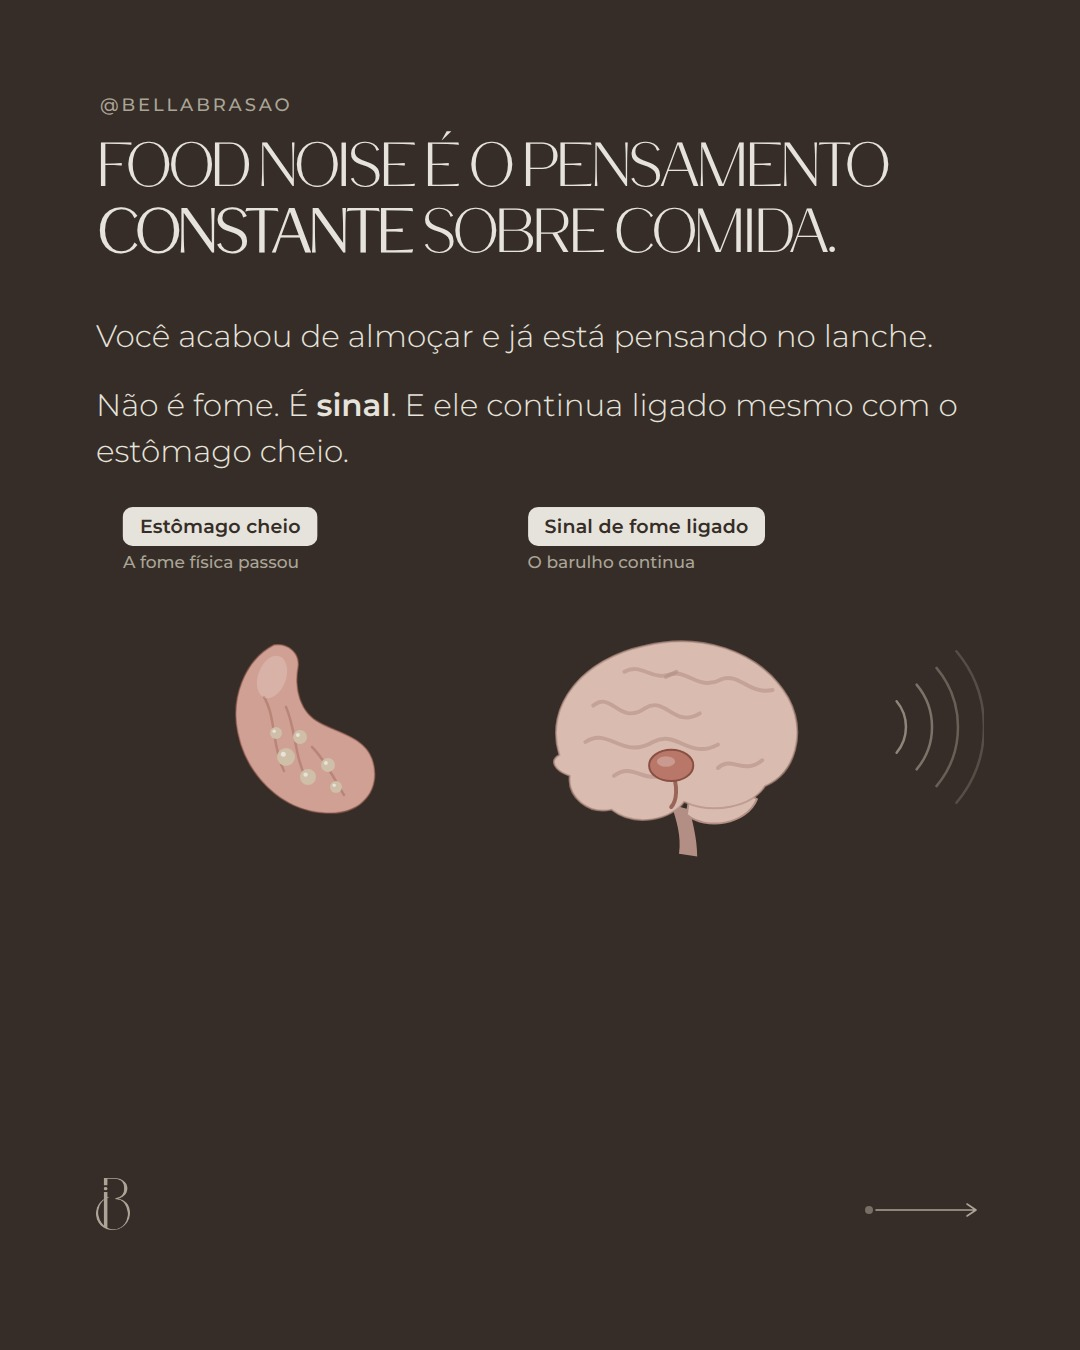
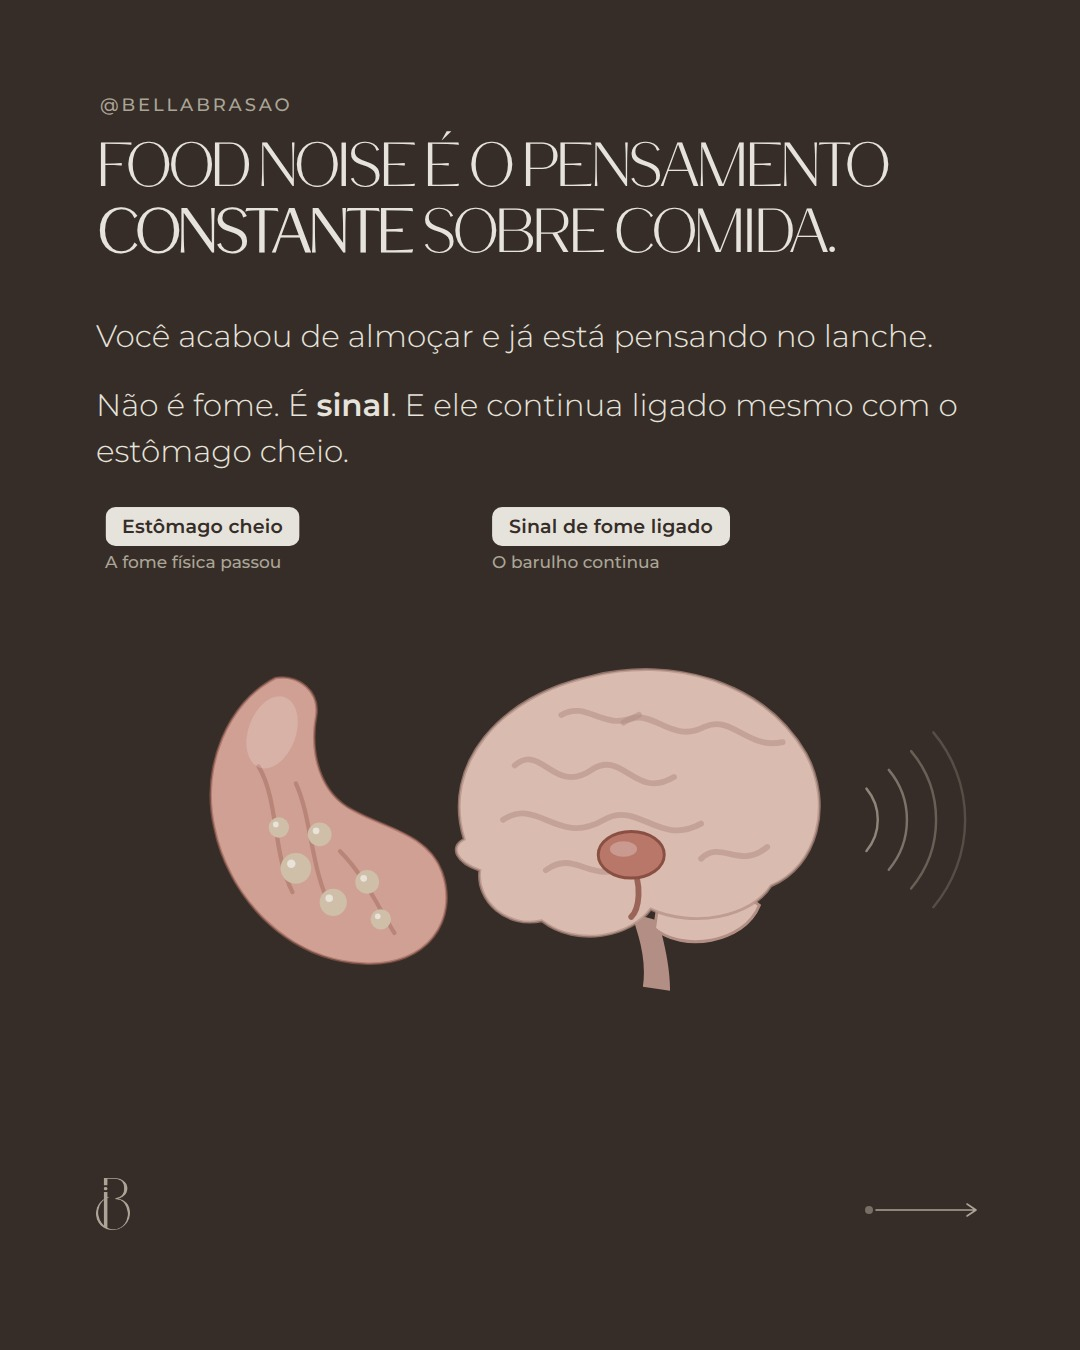
Regra do vazio: slide de texto curto recebe cena mais alta (Food noise 02 e 05)
Claude-Session: https://claude.ai/code/session_0184aokY6yAxAMgYfK9MWu98

diff --git a/brand/ILLUSTRATION-GUIDE.md b/brand/ILLUSTRATION-GUIDE.md
@@ -59,7 +59,11 @@ em volta. Nada de desenho cruza faixa e nada de etiqueta cruza o miolo.
 |---|---|---|---|
 | Capa | 520 × 900 | 520 × 900 | etiquetas sobre a figura, só pílula, sem legenda |
 | Diagrama | 888 × 370 | 488 × 370 (ou 508) | colunas de 200 px (ou 190) à esquerda e à direita; topo e base centrais livres |
-| Texto com figura | 888 × 380 | 888 × 310 | faixa de 70 px no topo; se precisar, coluna de 170 px à direita |
+| Texto com figura | 888 × o que o texto deixar | caixa menos a faixa | faixa de 70 px no topo; se precisar, coluna de 170 px à direita |
+
+**Regra do vazio:** em slide de texto com pouco texto (um ou dois parágrafos curtos), a cena é
+composta numa caixa mais alta (888 × 520) com as peças maiores, pra preencher o espaço. O slide
+nunca fica com um terço vazio. Com três parágrafos, a caixa é 888 × 380.
 
 Dentro do miolo: a peça principal no centro, as secundárias nos cantos, cada uma inteira
 (nunca cortada pela borda). Deixe vazio o canto que vai receber etiqueta na faixa ao lado.
